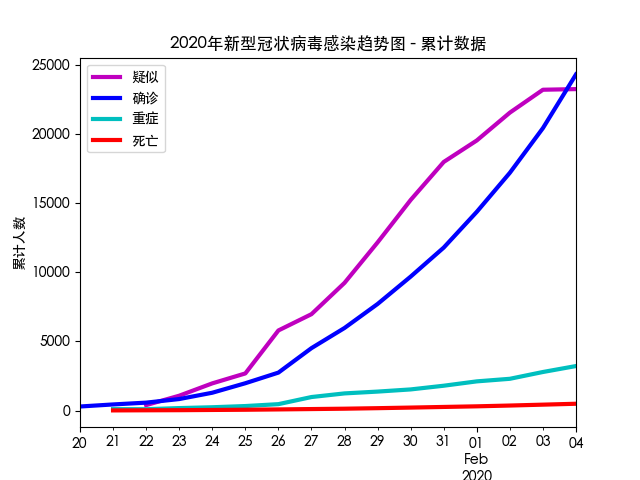
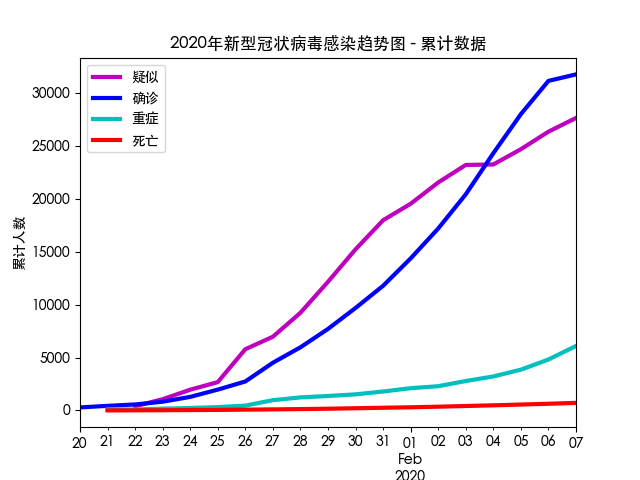
Update for data on Feb 7

diff --git a/scripts/update_README.py b/scripts/update_README.py
@@ -137,6 +137,31 @@ ltd_table = tabulate(
 
 # print(ltd_table)
 
+df_new = df[[
+	'日期', '接触_新增量', '观察_新增量', '疑似_新增量', '确诊_新增量', '重症_新增量', '死亡_新增量', '治愈_新增量'
+	]].iloc[::-1]
+
+df_new['日期'] = df_new['日期'].map('{:%m/%d}'.format)
+df_new['接触_新增量'] = df_new['接触_新增量'].map('{:,.0f}'.format)
+df_new['观察_新增量'] = df_new['观察_新增量'].map('{:,.0f}'.format)
+df_new['疑似_新增量'] = df_new['疑似_新增量'].map('{:,.0f}'.format)
+df_new['确诊_新增量'] = df_new['确诊_新增量'].map('{:,.0f}'.format)
+df_new['重症_新增量'] = df_new['重症_新增量'].map('{:,.0f}'.format)
+df_new['死亡_新增量'] = df_new['死亡_新增量'].map('{:,.0f}'.format)
+df_new['治愈_新增量'] = df_new['治愈_新增量'].map('{:,.0f}'.format)
+
+
+new_table = tabulate(
+	df_new,
+	headers = ['日期', '接触', '观察', '疑似', '确诊', '重症', '死亡', '治愈'],
+	showindex = 'always',
+	tablefmt = 'pipe',
+	stralign = 'right'
+)
+
+# print(ltd_table)
+
+
 df_change = df[[
 	'日期', '接触_新增率', '观察_新增率', '疑似_新增率', '确诊_新增率', '重症_新增率', '死亡_新增率', '治愈_新增率'
 	]].iloc[::-1]
@@ -198,6 +223,10 @@ read_me_text = """
 
 %s
 
+### 当日新增
+
+%s
+
 ### 当日新增百分比
 
 %s
@@ -238,7 +267,7 @@ read_me_text = """
 
 # Create complete README.md with variables
 
-read_me_all = read_me_text % (current_date.strftime('%m-%d'), ltd_table, change_table)
+read_me_all = read_me_text % (current_date.strftime('%m-%d'), ltd_table, new_table, change_table)
 
 md_file = "../README.md"
 

diff --git a/README.md b/README.md
@@ -5,7 +5,7 @@
 
 这是根据卫建委发布的官方数据制作的每日疫情发展趋势图。每日830~930之间根据卫建委发布的最新疫情通报更新。
 
-- 更新时间: **`08:30, 02-05`**
+- 更新时间: **`08:30, 02-08`**
 - [网页地址](https://zire.github.io/pandemic2020/)
 - [Github Repo地址](https://github.com/zire/pandemic2020)
 - 数据来源：[中华人民共和国国家卫生健康委员会卫生应急办公室](http://www.nhc.gov.cn/)
@@ -33,6 +33,9 @@
 
 |    |   日期 |    接触 |    观察 |   疑似 |   确诊 |   重症 |   死亡 |   治愈 |
 |---:|-------:|--------:|--------:|-------:|-------:|-------:|-------:|-------:|
+| 18 |  02/07 | 345,498 | 189,660 | 27,657 | 31,774 |  6,101 |    722 |  2,050 |
+| 17 |  02/06 | 314,028 | 186,045 | 26,359 | 31,161 |  4,821 |    636 |  1,540 |
+| 16 |  02/05 | 282,813 | 186,345 | 24,702 | 28,018 |  3,859 |    563 |  1,153 |
 | 15 |  02/04 | 252,154 | 185,555 | 23,260 | 24,324 |  3,219 |    490 |    892 |
 | 14 |  02/03 | 221,015 | 171,329 | 23,214 | 20,438 |  2,788 |    425 |    632 |
 | 13 |  02/02 | 189,583 | 152,700 | 21,558 | 17,205 |  2,296 |    361 |    475 |
@@ -50,10 +53,37 @@
 |  1 |  01/21 |   2,197 |   1,394 |    nan |    440 |    102 |      9 |    nan |
 |  0 |  01/20 |   1,739 |     922 |     54 |    291 |    nan |    nan |    nan |
 
+### 当日新增
+
+|    |   日期 |   接触 |   观察 |   疑似 |   确诊 |   重症 |   死亡 |   治愈 |
+|---:|-------:|-------:|-------:|-------:|-------:|-------:|-------:|-------:|
+| 18 |  02/07 | 31,470 |  3,615 |  1,298 |    613 |  1,280 |     86 |    510 |
+| 17 |  02/06 | 31,215 |   -300 |  1,657 |  3,143 |    962 |     73 |    387 |
+| 16 |  02/05 | 30,659 |    790 |  1,442 |  3,694 |    640 |     73 |    261 |
+| 15 |  02/04 | 31,139 | 14,226 |     46 |  3,886 |    431 |     65 |    260 |
+| 14 |  02/03 | 31,432 | 18,629 |  1,656 |  3,233 |    492 |     64 |    157 |
+| 13 |  02/02 | 25,739 | 15,106 |  2,014 |  2,825 |    186 |     57 |    147 |
+| 12 |  02/01 | 26,857 | 19,116 |  1,556 |  2,589 |    315 |     45 |     85 |
+| 11 |  01/31 | 23,408 | 16,051 |  2,750 |  2,099 |    268 |     46 |     72 |
+| 10 |  01/30 | 24,886 | 20,480 |  3,071 |  1,981 |    157 |     43 |     47 |
+|  9 |  01/29 | 23,156 | 21,957 |  2,928 |  1,737 |    131 |     38 |     21 |
+|  8 |  01/28 | 17,704 | 15,858 |  2,266 |  1,459 |    263 |     26 |     43 |
+|  7 |  01/27 | 15,034 | 13,679 |  1,179 |  1,771 |    515 |     26 |      9 |
+|  6 |  01/26 |  9,368 |  8,897 |  3,110 |    769 |    137 |     24 |      2 |
+|  5 |  01/25 |  8,234 |  7,589 |    719 |    688 |     87 |     15 |     11 |
+|  4 |  01/24 |  5,690 |  5,547 |    893 |    457 |     60 |     16 |      4 |
+|  3 |  01/23 |  3,610 |  3,492 |    679 |    259 |     82 |      8 |    nan |
+|  2 |  01/22 |  3,700 |  3,534 |    nan |    131 |     -7 |      8 |    nan |
+|  1 |  01/21 |    458 |    472 |    nan |    149 |    nan |    nan |    nan |
+|  0 |  01/20 |    nan |    nan |    nan |    nan |    nan |    nan |    nan |
+
 ### 当日新增百分比
 
 |    |   日期 |   接触 |   观察 |   疑似 |   确诊 |   重症 |   死亡 |   治愈 |
 |---:|-------:|-------:|-------:|-------:|-------:|-------:|-------:|-------:|
+| 18 |  02/07 |  10.0% |   1.9% |   4.9% |   2.0% |  26.6% |  13.5% |  33.1% |
+| 17 |  02/06 |  11.0% |  -0.2% |   6.7% |  11.2% |  24.9% |  13.0% |  33.6% |
+| 16 |  02/05 |  12.2% |   0.4% |   6.2% |  15.2% |  19.9% |  14.9% |  29.3% |
 | 15 |  02/04 |  14.1% |   8.3% |   0.2% |  19.0% |  15.5% |  15.3% |  41.1% |
 | 14 |  02/03 |  16.6% |  12.2% |   7.7% |  18.8% |  21.4% |  17.7% |  33.1% |
 | 13 |  02/02 |  15.7% |  11.0% |  10.3% |  19.6% |   8.8% |  18.8% |  44.8% |
@@ -90,6 +120,11 @@
 
 ## 数据来源
 
+- [截至2月7日24时新型冠状病毒肺炎疫情最新情况](http://www.nhc.gov.cn/xcs/yqtb/202002/6c305f6d70f545d59548ba17d79b8229.shtml)
+- [截至2月6日24时新型冠状病毒肺炎疫情最新情况](http://www.nhc.gov.cn/xcs/yqtb/202002/3db09278e3034f289841300ed09bd0e1.shtml)
+- [截至2月5日24时新型冠状病毒感染的肺炎疫情最新情况](http://www.nhc.gov.cn/xcs/yqtb/202002/6b1e029fd22c484281cbc5e73dae98fc.shtml)
+- [截至2月4日24时新型冠状病毒感染的肺炎疫情最新情况](http://www.nhc.gov.cn/xcs/yqtb/202002/17a03704a99646ffad6807bc806f37a4.shtml)
+- [截至2月3日24时新型冠状病毒感染的肺炎疫情最新情况](http://www.nhc.gov.cn/xcs/yqtb/202002/bfebf84fb88248e4a4eba61295e5882b.shtml)
 - [截至2月2日24时新型冠状病毒感染的肺炎疫情最新情况](http://www.nhc.gov.cn/xcs/yqfkdt/202002/24a796819bf747bd8b945384517e9a51.shtml)
 - [截至2月1日24时新型冠状病毒感染的肺炎疫情最新情况](http://www.nhc.gov.cn/xcs/yqtb/202002/d5c495da742f4739b7f99339c3bd032f.shtml)
 - [截至1月31日24时新型冠状病毒感染的肺炎疫情最新情况](http://www.nhc.gov.cn/xcs/yqtb/202002/84faf71e096446fdb1ae44939ba5c528.shtml)
